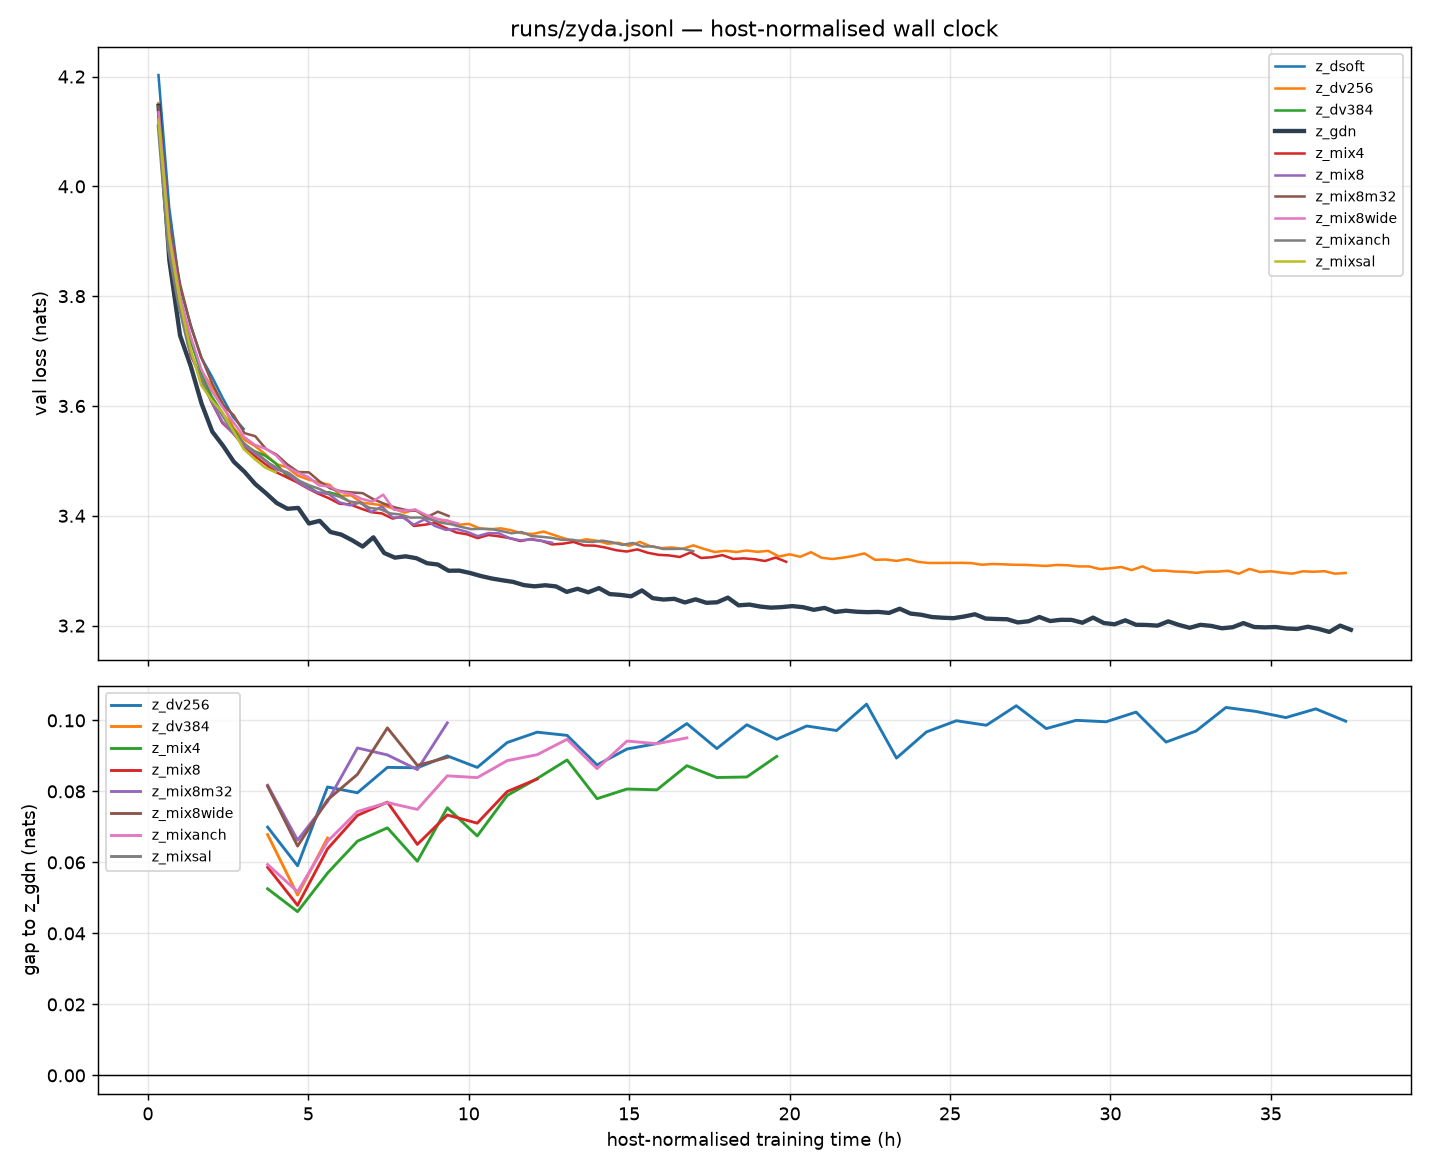
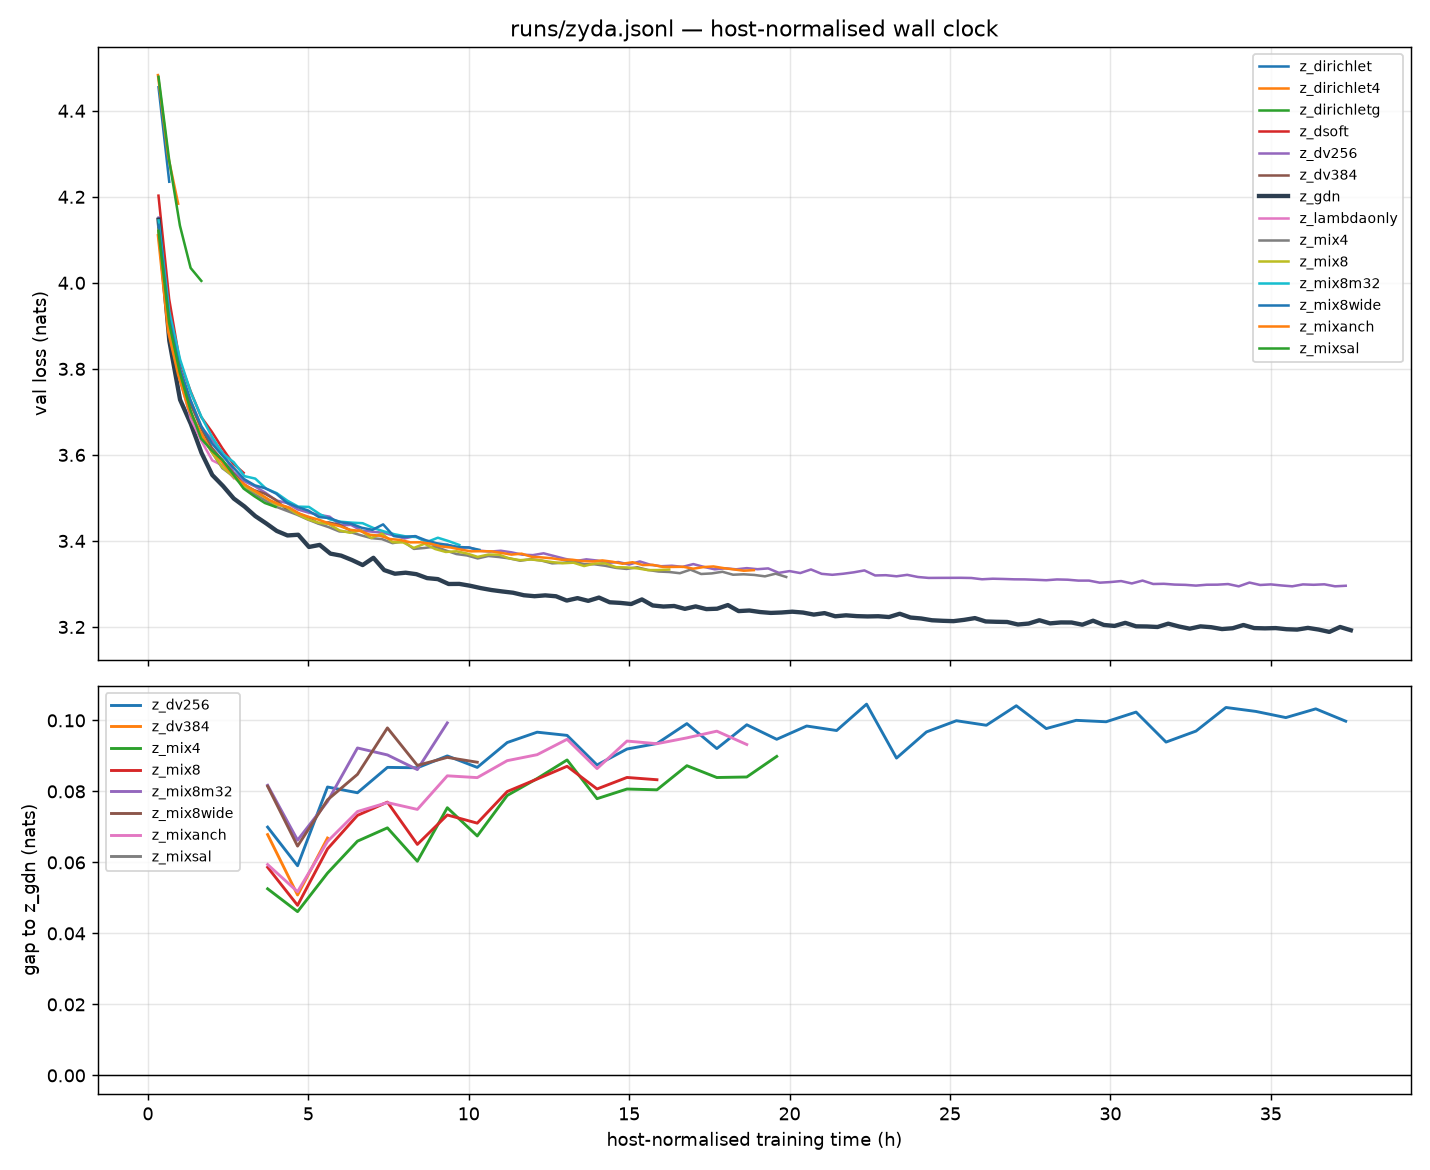
zyda_heads: the long head carries the model, and the reason is measurable
At 0.43B tokens, against mix8 with both heads:

                   val gap    context gain b0-b15
    mix8             ---            +0.1948
    lambdaonly     +0.0145          +0.1969
    dirichletg     +0.4446          +0.0665
    dirichlet4     +0.4265          +0.0742
    dirichlet      +0.4062          +0.0834   (ungated)

The third column is what explains the first. The Dirichlet head alone
extracts 2.7x less from long context, which is exactly what a receptive
field of layers*(L-1) = 1016 tokens on a 4096 block predicts. Four true
heads move it from 0.0665 to 0.0742 and the loss gap not at all: heads
add filters, not span. Obvious afterwards, not before.

lambdaonly is the other half and it is a different story: +0.010 to
+0.017 at matched tokens, and AHEAD of mix8 at matched wall clock by
0.009 to 0.014, since it runs 10.7% faster. Its context gain equals
mix8's, +0.1969 against +0.1948, so removing the exact window costs
nothing on long range.

So lambdaonly is the best LapA configuration this campaign has produced:
112.7M parameters against 120.1M, 4224 KiB of state against 6256 (-33%),
+10.7% throughput, and a lower loss per unit of wall clock. The first
simplification that pays on all four axes at once.

The gap to GDN is unchanged at ~0.075 nat.

The ungated z_dirichlet sits with the others rather than below them,
which retires my explanation of yesterday evening: the Dirichlet head's
deficit was never the missing gate.

diff --git a/campaign_plots.py b/campaign_plots.py
@@ -29,11 +29,16 @@ LOG = ROOT / "runs" / "zyda.jsonl"
 OUT = ROOT / "plot"          # where every figure in this repo has always gone
 
 # arm -> slot it ran on, so elapsed seconds can be put on one clock
-SLOT = {"z_dv256": 0, "z_mix8wide": 0, "z_gdn": 2, "z_mix8m32": 2, "z_mixanch": 3,
+SLOT = {"z_dv256": 0, "z_mix8wide": 0, "z_dirichlet": 0, "z_dirichletg": 0,
+        "z_gdn": 2, "z_mix8m32": 2, "z_lambdaonly": 2,
+        "z_mixanch": 3, "z_dirichlet4": 3,
         "z_mix4": 1, "z_mixsal": 1, "z_mix8": 1, "z_dv384": 1, "z_dsoft": 1}
 COL = {"z_gdn": "k", "z_dv256": "tab:purple", "z_mix4": "tab:orange", "z_mix8wide": "tab:brown", "z_mix8m32": "tab:cyan",
-       "z_mix8": "tab:blue", "z_mixanch": "tab:green", "z_mixsal": "tab:red"}
-R_OF = {"z_mix4": 4, "z_mix8": 8, "z_mix8wide": 8, "z_mix8m32": 8, "z_mixanch": 4, "z_mixsal": 4, "z_dv256": 1}
+       "z_mix8": "tab:blue", "z_mixanch": "tab:green", "z_mixsal": "tab:red",
+       "z_lambdaonly": "tab:olive", "z_dirichletg": "tab:pink",
+       "z_dirichlet4": "tab:cyan", "z_dirichlet": "0.6"}
+R_OF = {"z_mix4": 4, "z_mix8": 8, "z_mix8wide": 8, "z_mix8m32": 8, "z_mixanch": 4,
+        "z_mixsal": 4, "z_dv256": 1, "z_lambdaonly": 8}
 
 
 def host_factors() -> dict[str, float]:
@@ -214,6 +219,66 @@ def fig_mdose(h, fac, ref="z_mix8wide", arm="z_mix8m32", base="z_mix8"):
         print(f"  a {lab:11s} " + "  ".join(f"{x:.2f}:{y:+.4f}" for x, y in zip(g, d)))
 
 
+def fig_heads(h, fac, ref="z_mix8",
+              arms=("z_lambdaonly", "z_dirichletg", "z_dirichlet4", "z_dirichlet")):
+    """Which half of the layer carries the model.
+
+    Three panels because the loss alone does not explain itself. The third is
+    the one that does: b0 - b15 of the per-position loss is what the model gains
+    from 4000 tokens of history rather than 250, and the Dirichlet head's
+    receptive field is ~layers*(L-1) = 1016 of a 4096 block.
+    """
+    live = [m for m in arms if m in h and len(h[m]) > 1]
+    if ref not in h or not live:
+        print("head ablation: not enough data yet")
+        return
+    def xy(m, col):
+        v = [(r["tokens"] / 1e9 if col == 0 else r["train_s"] * fac[m] / 3600,
+              r["val"], r["pos"][0] - r["pos"][-1])
+             for r in h[m] if r["train_s"] > 300 and r.get("pos")]
+        return np.array(v, dtype=float).reshape(-1, 3)
+
+    fig, ax = plt.subplots(1, 3, figsize=(16, 4.8))
+    for m in [ref] + live:
+        a = xy(m, 0)
+        if not len(a):
+            continue
+        lw = 2.4 if m == ref else 1.8
+        lab = m[2:] + (" (non gate)" if m == "z_dirichlet" else "")
+        ax[0].plot(a[:, 0], a[:, 1], label=lab, lw=lw, marker="o", ms=3, color=COL[m])
+        ax[2].plot(a[:, 0], a[:, 2], label=lab, lw=lw, marker="o", ms=3, color=COL[m])
+    r1 = xy(ref, 1)
+    for m in live:
+        b = xy(m, 1)
+        if not len(b):
+            continue
+        ax[1].plot(b[:, 0], b[:, 1] - np.interp(b[:, 0], r1[:, 0], r1[:, 1]),
+                   label=m[2:], lw=1.8, marker="o", ms=3, color=COL[m])
+    ax[1].axhline(0, color=COL[ref], lw=2, label=ref[2:])
+    ax[1].axhspan(-0.008, 0.008, color="0.85", zorder=0, label="bruit +/-0.008")
+    ax[0].set_xlabel("tokens vus (B)"); ax[0].set_ylabel("val loss (nats)")
+    ax[0].set_title("val a tokens appaires")
+    ax[1].set_xlabel("wall clock normalise hote (h)")
+    ax[1].set_ylabel(f"ecart a {ref[2:]} (nats)")
+    ax[1].set_title("a WALL CLOCK egal — negatif = mieux que les deux tetes")
+    ax[2].set_xlabel("tokens vus (B)"); ax[2].set_ylabel("gain de contexte b0 - b15")
+    ax[2].set_title("ce que le modele tire de 4000 tokens plutot que 250")
+    for a_ in ax:
+        a_.grid(alpha=.3); a_.legend(fontsize=8)
+    fig.suptitle("Zyda-2 — quelle moitie du layer porte le modele")
+    fig.tight_layout(); fig.savefig(OUT / "zyda_heads.png", dpi=110)
+    print(f"saved {OUT.name}/zyda_heads.png")
+
+    a0 = xy(ref, 0)
+    tmax = min(xy(m, 0)[-1, 0] for m in live if len(xy(m, 0)))
+    print(f"\n  a {tmax:.2f}B tokens, ecart a {ref[2:]} et gain de contexte")
+    print(f"    {ref[2:]:12s}  ---       {np.interp(tmax, a0[:,0], a0[:,2]):+.4f}")
+    for m in live:
+        b = xy(m, 0)
+        print(f"    {m[2:]:12s} {np.interp(tmax, b[:,0], b[:,1]) - np.interp(tmax, a0[:,0], a0[:,1]):+.4f}"
+              f"   {np.interp(tmax, b[:,0], b[:,2]):+.4f}")
+
+
 def main() -> None:
     h, fac = load(), host_factors()
     print("arms: " + ", ".join(f"{m[2:]}({len(h[m])})" for m in h))
@@ -222,6 +287,7 @@ def main() -> None:
     fig_router(h)
     fig_omega(h)
     fig_mdose(h, fac)
+    fig_heads(h, fac)
 
 
 if __name__ == "__main__":
